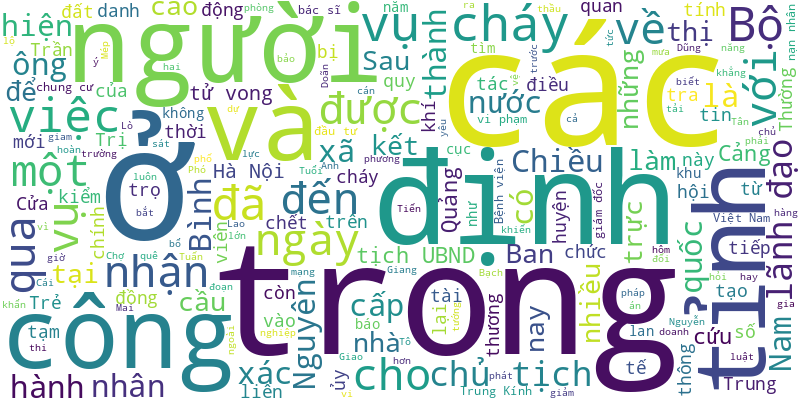
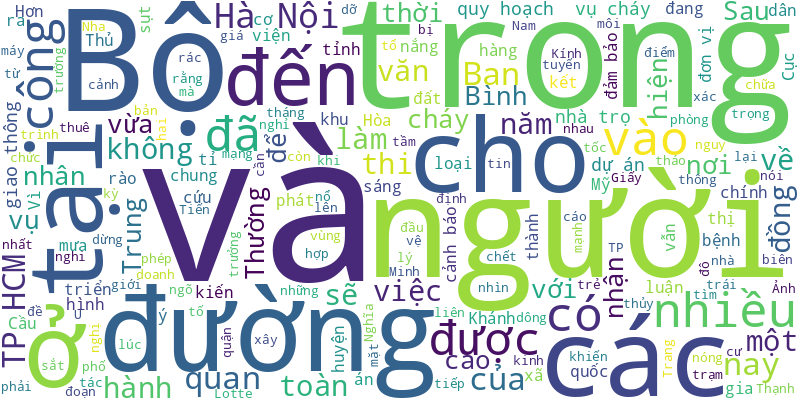
🍀 = 20%

diff --git a/README.md b/README.md
@@ -1,6 +1,16 @@
 # Tuoi Tre RSS 
 
 ## Giáo dục 
+- "Hệ thống cảnh báo và dò tìm người mắc kẹt trong các vụ cháy chung cư" là đề tài của học sinh Lâm Bảo Trân và Lâm Hùng Vĩ (Trường THPT chuyên Nguyễn Thị Minh Khai, TP Sóc Trăng, tỉnh Sóc Trăng).
+- Trường đại học Khoa học tự nhiên (Đại học Quốc gia TP.HCM) vừa chính thức đi vào hoạt động phòng hỗ trợ chăm sóc sức khỏe tinh thần phục vụ miễn phí cho sinh viên.
+- Việc các trường đại học bắt tay hợp tác với các trường cấp THPT được đánh giá là các phát kiến hợp tác “đa lợi ích”.
+- Đại học Quốc gia TP.HCM sẽ đăng cai tổ chức trại hè sinh viên mạng lưới các đại học Đông Nam Á  năm 2024 (AUN - VUNHCM Summer Program 2024) vào tháng 7-2024.
+- Nhiều thí sinh cho biết cảm thấy hứng thú vì 'gặp' Đen Vâu trong đề thi văn tuyển sinh lớp 10 Trường phổ thông Năng khiếu.
+- Trường Quốc tế Nam Sài Gòn (SSIS) đầu tư 30 triệu USD, xây dựng trường THCS và trung tâm thiết kế STEAM nhằm nâng cao chất lượng đào tạo khoa học công nghệ.
+- Chỉ vì 1 chữ H do giáo viên môn âm nhạc đánh giá, một phụ huynh bức xúc lên tiếng. Làm sao mới công bằng?
+- Tính đến ngày 25-5, đã có hơn 20 trường đại học công bố điểm chuẩn xét tuyển sớm bằng học bạ.
+- Thay vì dành thời gian và công sức luyện thi các chứng chỉ tiếng Anh phổ biến như IELTS, TOEIC để xét tuyển đầu vào và xét tốt nghiệp ĐH, nhiều bạn trẻ chuyển sang dùng "hàng nội địa" VSTEP.
+- Chuyện sinh viên học đại học (ĐH) bị "đứt gánh giữa đường" như phản ánh của báo Tuổi Trẻ có lẽ không mới trong đào tạo ĐH. Đây là điều bình thường. Vì sao?
 - Sáng nay 25-5, gần 4.000 học sinh lớp 9 bước vào kỳ thi tuyển sinh lớp 10 đầu tiên ở TP.HCM tại 3 điểm thi.
 - Bảng điểm khá đẹp nhưng chỉ vì có một chữ H mà học sinh không được khen thưởng danh hiệu xuất sắc.
 - Đại diện Trường đại học quốc tế Hồng Bàng cho biết chưa nghe thông tin gì về việc tập đoàn rao bán trường.
@@ -21,48 +31,38 @@
 - Thời điểm này, khi hầu hết các trường phổ thông làm lễ tổng kết năm học, đó cũng là lúc trên mạng xã hội tràn ngập những "tút" của phụ huynh khoe con.
 - Trường đại học Bách khoa (Đại học Quốc gia TP.HCM) và Trường đại học Công nghiệp TP.HCM đạt doanh thu nghìn tỉ đồng năm 2023.
 - Ngày hội giáo dục STEAM ở quận Phú Nhuận, TP.HCM có nhiều hoạt động đa dạng cho cả học sinh và giáo viên.
-- Trường đại học Công nghệ thông tin (Đại học Quốc gia TP.HCM) sẽ dành khoảng 1 tỉ đổng mỗi năm để trao học bổng sinh viên ngành thiết kế vi mạch của trường.
-- Bộ trưởng Giáo dục và Đào tạo nhìn nhận lương và thu nhập cho giáo viên ký hợp đồng còn thấp, chưa động viên được người lao động.
-- Trong các trường đại học thành viên Đại học Quốc gia TP.HCM, trường có doanh thu cao nhất lên đến gần ngàn tỉ đồng và thấp nhất hơn 236,1 tỉ đồng/năm.
-- Năm nay, có 5.744 thí sinh đăng ký theo phương thức xét tuyển tài năng vào Đại học Bách khoa Hà Nội, tăng 1,9 lần so với năm 2023.
-- Các bài toán được 'đặt hàng' công nghệ cũng là những thách thức trong quản lý dạy và học trên địa bàn TP.HCM.
-- Nhiều thí sinh được miễn thi ngoại ngữ trong xét tốt nghiệp THPT đều được tính 10 điểm môn này hiện vẫn còn lăn tăn việc có nên thi ngoại ngữ hay không.
-- Nhiều người nói vui rằng mùa hè đến và mùa khoe con cũng bắt đầu sôi động. Và có muôn vàn hệ lụy "ăn theo" mùa khoe con này.
-- Nhiều sinh viên chỉ vừa nhập học đã muốn chuyển ngành vì cảm giác không hợp. Không ít sinh viên đã bỏ học, kết quả lẹt đẹt.
-- Phụ huynh học sinh ở huyện Mường Lát vừa tố hội đồng tuyển sinh của huyện xét tuyển không đúng đối tượng vào học tại Trường Phổ thông dân tộc nội trú THCS Mường Lát. Trong đó có con, cháu lãnh đạo cấp phòng, hiệu trưởng, giáo viên.
-- Bộ Giáo dục và Đào tạo vừa công bố danh sách 139 học sinh được miễn thi tốt nghiệp THPT xét tuyển thẳng vào đại học, cao đẳng năm 2024.
 ![Edu](Edu.png)
 ## Thời Sự 
-- Nguồn tin riêng xác nhận với Tuổi Trẻ Online ông Doãn Tiến Dũng, chủ tịch UBND thị xã Cửa Lò, bị bắt tạm giam để điều tra về hành vi nhận hối lộ.
-- Tin tức đáng chú ý: Sớm ban hành quy định giá đất mới; Đến cuối giờ chiều 24-5 cơ quan chức năng mới xác định được danh tính 11/14 người tử vong trong vụ cháy ở Trung Kính, Hà Nội, hôm nay sẽ hoàn tất xác định danh tính 3 người còn lại...
-- Hôm nay 25-5, thời tiết Nam Bộ giảm mưa so với những ngày trước. Bắc Bộ, Tây Nguyên vài nơi còn mưa to.
-- Chiều 24-5, Bộ trưởng Công Thương Nguyễn Hồng Diên đã có buổi làm việc với các địa phương, chủ đầu tư về các dự án nhiệt điện sử dụng khí thiên nhiên trong nước và khí LNG.
-- Trung tướng Nguyễn Hải Trung cho hay việc bổ sung quy định dao có tính sát thương cao là vũ khí giúp xử lý các hành vi, đồng thời tạo răn đe, phòng ngừa rất lớn.
-- Ban Thường vụ Tỉnh ủy An Giang thi hành kỷ luật nhiều lãnh đạo, nguyên lãnh đạo huyện Chợ Mới do vi phạm về tài chính, tài sản, đấu thầu, đầu tư xây dựng.
-- Lãnh đạo Tổng liên đoàn Lao động Việt Nam thăm hỏi, động viên, tặng quà công nhân, người lao động, thân nhân trong vụ cháy khiến 14 người tử vong ở Hà Nội.
-- Trong những nạn nhân xấu số ở vụ cháy nhà trọ làm 14 người chết tại Hà Nội, có một cặp đôi trẻ quê Hà Tĩnh sắp kết hôn. Sau vụ cháy đêm qua, ước mơ thành vợ thành chồng của cả hai mãi dở dang...
-- Chiều 24-5, ông Bùi Sỹ Tuấn Anh, giám đốc Bệnh viện Giao thông vận tải, cho biết đến 17h chiều nay đã có ba nạn nhân của vụ cháy nhà trọ ở Trung Kính chuyển sang Bệnh viện Bạch Mai để tiếp tục điều trị.
-- Ban An toàn giao thông tỉnh Bình Định kiểm tra việc thi công nâng cấp quốc lộ 19 đoạn qua đèo An Khê, yêu cầu chủ đầu tư và các nhà thầu khẩn trương khắc phục các tồn tại trước ngày 26-5.
-- Chiều 24-5, chủ tịch UBND tỉnh Kiên Giang tổ chức đối thoại (trực tiếp và trực tuyến với 8 huyện, thành phố) với doanh nghiệp lần 1-2024. Người đứng đầu tỉnh khẳng định luôn luôn đồng hành, lắng nghe ý kiến doanh nghiệp.
-- Công an tỉnh Nghệ An đã khởi tố bị can, bắt tạm giam ông Doãn Tiến Dũng - chủ tịch UBND thị xã Cửa Lò.
-- Chủ tịch nước Tô Lâm nhấn mạnh đến việc cần thiết phải hoàn thiện các quy định pháp luật trong công tác cảnh vệ để đáp ứng yêu cầu ngày càng cao trong công tác bảo vệ lãnh đạo, đối ngoại quốc gia.
-- Trở về từ hiện trường, Phó chủ tịch Quốc hội Trần Quang Phương cho hay trong vụ này, chết cháy nhiều hơn chết ngạt, vì cháy xộc thẳng vào từng phòng trọ.
-- Cảng Tân Cảng và Cái Mép - Thị Vải và cảng quốc tế Cái Mép chính thức mở hàng rào, kết nối với nhau. Việc này tạo ra bến cảng dài 1,2km nhằm tăng cường khả năng tiếp nhận tàu.
-- Bộ Công an cho biết qua kiểm tra 3.956 nhà chung cư trên cả nước, lực lượng công an đã phát hiện hàng ngàn chung cư vi phạm ở khắp các tỉnh, thành phố.
-- Ban Thường vụ Thành ủy Phú Quốc khẳng định nội dung về việc tạm ngừng giải quyết cho cán bộ, đảng viên là lãnh đạo các cấp đi nước ngoài không liên quan đến cán bộ vi phạm đất đai ở đảo. Thông tin mạng xã hội lan truyền mấy ngày qua là sai.
-- Sau hai năm, các chỉ số về phát triển du lịch của Việt Nam đều giảm và bị một số nước trong khu vực như Thái Lan, Indonesia, Malaysia... bỏ xa. Vì sao?
-- Liên quan vụ 51 du khách nhập viện nghi ngộ độc ở Bình Thuận, ngành y tế tỉnh báo cáo không thể tìm được nguyên nhân.
-- Qua nhiều ngày theo dõi và tìm hiểu, nhóm phóng viên báo Tuổi Trẻ xác định một khu đất ven kênh ở xã Vĩnh Lộc A (huyện Bình Chánh, TP.HCM) là điểm tập kết và đốt đủ loại rác thải trái phép.
-- Người đàn ông sinh năm 1986, quê ở Long An trong vụ tạt axit vào bàn nhậu đã tử vong tại Bệnh viện Chợ Rẫy dù được các bác sĩ nỗ lực cứu chữa.
-- Cục Đường bộ Việt Nam có văn bản đề nghị Quảng Trị kiểm soát tải trọng xe qua cầu treo Đakrông. Ngược lại, Quảng Trị lại đề nghị cục thực hiện việc này.
-- 0h50 ngày 24-5, bác sĩ Hoàng Phúc (Trung tâm cấp cứu 115, trạm cấp cứu khu vực Từ Liêm) nhận được cuộc gọi báo vụ cháy ở ngõ 119 Trung Kính. Ngay lập tức, một kíp trực đã chạy đến hiện trường.
-- Anh Tuấn xác nhận mình là người cởi trần, đập cửa cố gắng cứu các nạn nhân như trong đoạn clip lan truyền trên mạng xã hội.
-- Bao giờ và làm sao để không còn những vụ cháy thương tâm như vậy? Nhiều bạn đọc đặt câu hỏi và tìm câu trả lời sau vụ cháy khiến 14 người tử vong tại quận Cầu Giấy, Hà Nội.
-- Trong quá trình triển khai các chương trình, dự án phải công khai, minh bạch; tạo điều kiện thuận lợi cho tầng lớp nhân dân tham gia giám sát cộng đồng.
-- Chiếc xe khách bốc cháy ngùn ngụt trên đường cao tốc Pháp Vân - Cao Bồ - Mai Sơn trưa 24-5. Nam tài xế kịp thời đánh lái ô tô vào làn dừng khẩn cấp rồi thoát ra ngoài.
-- Nguyên nhân vụ nổ lớn ở hầm chung cư Bình Dương được nhận định nghi do nổ cục nóng máy lạnh khi những người thợ đang thực hiện công tác bảo trì.
-- Sau gần một năm khuyết vị trí giám đốc, UBND tỉnh Bình Phước đã bổ nhiệm bác sĩ Đỗ Thị Nguyên làm tân giám đốc Sở Y tế.
-- Hơn một tháng từ khi ông Trần Nam Hưng được bầu giữ chức danh phó chủ tịch UBND tỉnh Quảng Nam nhiệm kỳ 2021-2026, đến nay Thủ tướng Chính phủ vẫn chưa phê chuẩn kết quả, lãnh đạo Thường trực Tỉnh ủy Quảng Nam nói gì?
+- Sau vụ cháy nhà trọ ở phố Trung Kính (Hà Nội), nhiều ý kiến cho rằng cần quản lý chặt loại hình nhà ở kết hợp kinh doanh và cho thuê trong những ngõ, hẻm nhỏ, nhất là với các loại hình kinh doanh nguy cơ cháy nổ cao.
+- Giữa cái nắng hè tháng 5 tại vùng biển Nha Trang (Khánh Hòa), 26 thành viên thuộc Cơ quan Kiểm kê tù binh và người mất tích Bộ Quốc phòng Mỹ (DPAA) tìm kiếm hài cốt của quân nhân Mỹ thiệt mạng trong vụ rơi máy bay vào năm 1971.
+- Một số tin tức đáng chú ý: Hơn 1.800 tỉ đồng nạo vét 3 tuyến đường thủy quan trọng ở TP.HCM; Ngân hàng sẽ tiếp tục lãi cao năm 2024; Sẽ cải tạo, phục hồi bãi rác Gò Cát và Đông Thạnh...
+- Hôm nay 26-5, Bắc Bộ thời tiết mưa rào đến mưa to. Nam Bộ và vùng núi Trung Bộ nắng nóng, vài nơi nắng nóng gay gắt.
+- UBND quận Cầu Giấy đã khen thưởng bốn "người hùng" cùng nhau hỗ trợ để cứu người trong vụ cháy làm 14 người chết tại đường Trung Kính, Cầu Giấy (Hà Nội) rạng sáng 24-5.
+- Ảnh vệ tinh lúc 21h15 đêm nay cho thấy mây dông đang phát triển mạnh, kéo về Bình Dương, Đồng Nai, TP.HCM... Đài khí tượng thủy văn khu vực Nam Bộ đã phát bản tin cảnh báo dông tố, lốc sét, mưa đá cục bộ.
+- Tuyến đường 965 ở U Minh Thượng đang diễn ra sụt lún bất thường. Việc sụt mặt đường đã khiến lưu thông không chỉ gặp khó mà còn ảnh hưởng đến việc mua bán nông sản của người dân.
+- Đánh đổi tiện nghi và an toàn để có mức giá rẻ, người lao động chấp nhận sống trong các khu trọ nằm sâu trong ngõ. Chuyên gia cho rằng cần có chính sách phát triển nhà ở xã hội cho thuê với giá phải chăng.
+- Thường trực Ban Bí thư Lương Cường ký ban hành kết luận của Bộ Chính trị về quy hoạch Hà Nội thời kỳ 2021-2030, tầm nhìn đến 2050 và đồ án điều chỉnh quy hoạch chung thủ đô đến năm 2045, tầm nhìn 2065.
+- Trong lúc làm việc, một công nhân bị máy trộn keo cuốn vào trong xoay nhiều vòng làm đứt lìa tay trái và hai chân.
+- Một đoạn dài 50m mặt đường quốc lộ 19 đoạn tránh thị xã An Khê (tỉnh Gia Lai) vừa thi công xong phải bóc lên sửa chữa vì ngấm nước.
+- Thủ tướng nhấn mạnh đến yếu tố con người đóng vai trò quan trọng trong triển khai các công việc nói chung và các dự án giao thông nói riêng.
+- Sau khi các bên ngồi lại với nhau, hàng rào bê tông chặn đường vào Bệnh viện TTH Quảng Bình đã được tháo dỡ.
+- Cục trưởng Cục Đường sắt Trần Thiện Cảnh cho biết đến thời điểm hiện tại vẫn chưa xác định chính xác thời điểm thông hầm đường sắt Chí Thạnh do miệng hố sụt lớn hơn rất nhiều so với nhận định ban đầu.
+- Sau khi vào cửa hàng điện thoại khống chế, cướp hai chiếc iPhone 14 Promax, nghi phạm bỏ trốn từ Nghệ An ra Hà Nội.
+- Bộ trưởng Nguyễn Văn Thắng nêu rõ đã quy hoạch mạng lưới trạm dừng nghỉ, ban hành quy chuẩn quốc gia về đường cao tốc, trong đó có trạm dừng nghỉ.
+- Lotte đang tháo dỡ 491m2 xây không phép tại siêu thị Lotte Mart quận 7 (TP.HCM) và hứa sẽ hoàn thành muộn nhất vào ngày 31-5.
+- Hơn 500 triệu đồng vừa được các đơn vị tổ chức trao tặng cho người dân xã Khánh Tiến, huyện U Minh, tỉnh Cà Mau trong chương trình Nghĩa tình biên giới.
+- Nhận xét hiện nay có một bộ phận người trẻ không có nhu cầu kết hôn mà chọn nuôi thú cưng làm niềm vui khơi lên nhiều ý kiến tranh luận.
+- Thi hành án liên quan 3 dự án khiến ngàn người vạ lây vẫn chậm trễ. Đơn vị môi giới vừa đề nghị được nộp tiền, thực hiện thay nghĩa vụ của chủ đầu tư để thúc đẩy việc thi hành án.
+- Tại TP Nha Trang (Khánh Hòa), Bộ Văn hóa, Thể thao và Du lịch tổ chức Trại sáng tác cho các tác giả nghiên cứu lý luận, phê bình văn học năm 2024.
+- Sáng 25-5, trở lại ‘đại công trường’ đốt rác trái phép ở huyện Bình Chánh, TP.HCM, chúng tôi ghi nhận nơi đây đã được dọn dẹp, lối vào bị rào chắn kèm bảng cảnh báo.
+- Dù từng tổng rà soát toàn thành phố sau vụ cháy chung cư mini làm 56 người chết vào năm ngoái, tại Hà Nội vẫn còn nhiều nhà trọ không đảm bảo an toàn.
+- Trong 6 nạn nhân vụ cháy nhà trọ ở Hà Nội được đưa đến bệnh viện cấp cứu, dự kiến trong chiều nay 25-5 sẽ có 3 bệnh nhân được xuất viện.
+- Để giảm thiểu nguy cơ về cháy nổ, đảm bảo an toàn tại khu dân cư, những nơi tập trung nhiều nhà trọ, Công an Hà Nội cảnh báo, khuyến cáo nhiều giải pháp về phòng cháy chữa cháy.
+- Vì sao Ban Thường vụ Tỉnh ủy An Giang thi hành kỷ luật bằng hình thức cảnh cáo, khiển trách Ban Thường vụ Huyện ủy Chợ Mới cả 2 nhiệm kỳ 2015-2020 và 2020-2025?
+- Các loại đất khác gồm cả đất xây dựng mới sẽ được chuyển mục đích sử dụng sang đất ở, nếu phù hợp quy hoạch và tiếp giáp đường giao thông.
+- Sở Giao thông vận tải TP.HCM vừa có văn bản đề nghị các đơn vị liên quan đảm bảo trật tự an toàn giao thông, vệ sinh môi trường và mỹ quan đô thị trong quá trình thi công nút giao An Phú, TP Thủ Đức.
+- Dự án cao tốc Biên Hòa - Vũng Tàu khởi công từ tháng 6-2023, nhưng đến nay tiến độ của mỗi nơi một khác, không đồng bộ. Vì sao xảy ra chuyện này?
+- Theo tìm hiểu của Tuổi Trẻ Online, hiện nay dự án ngăn triều 10.000 tỉ tại TP.HCM đã đội vốn thêm khoảng 4.000 tỉ đồng.
 ![New](News.png)
 ## Nhịp sống số 
 - Đừng để mình 'lấm lem' trên mạng chỉ vì một phút ham vui theo trào lưu hoặc mắc vạ miệng chỉ vì những bức xúc cá nhân.
